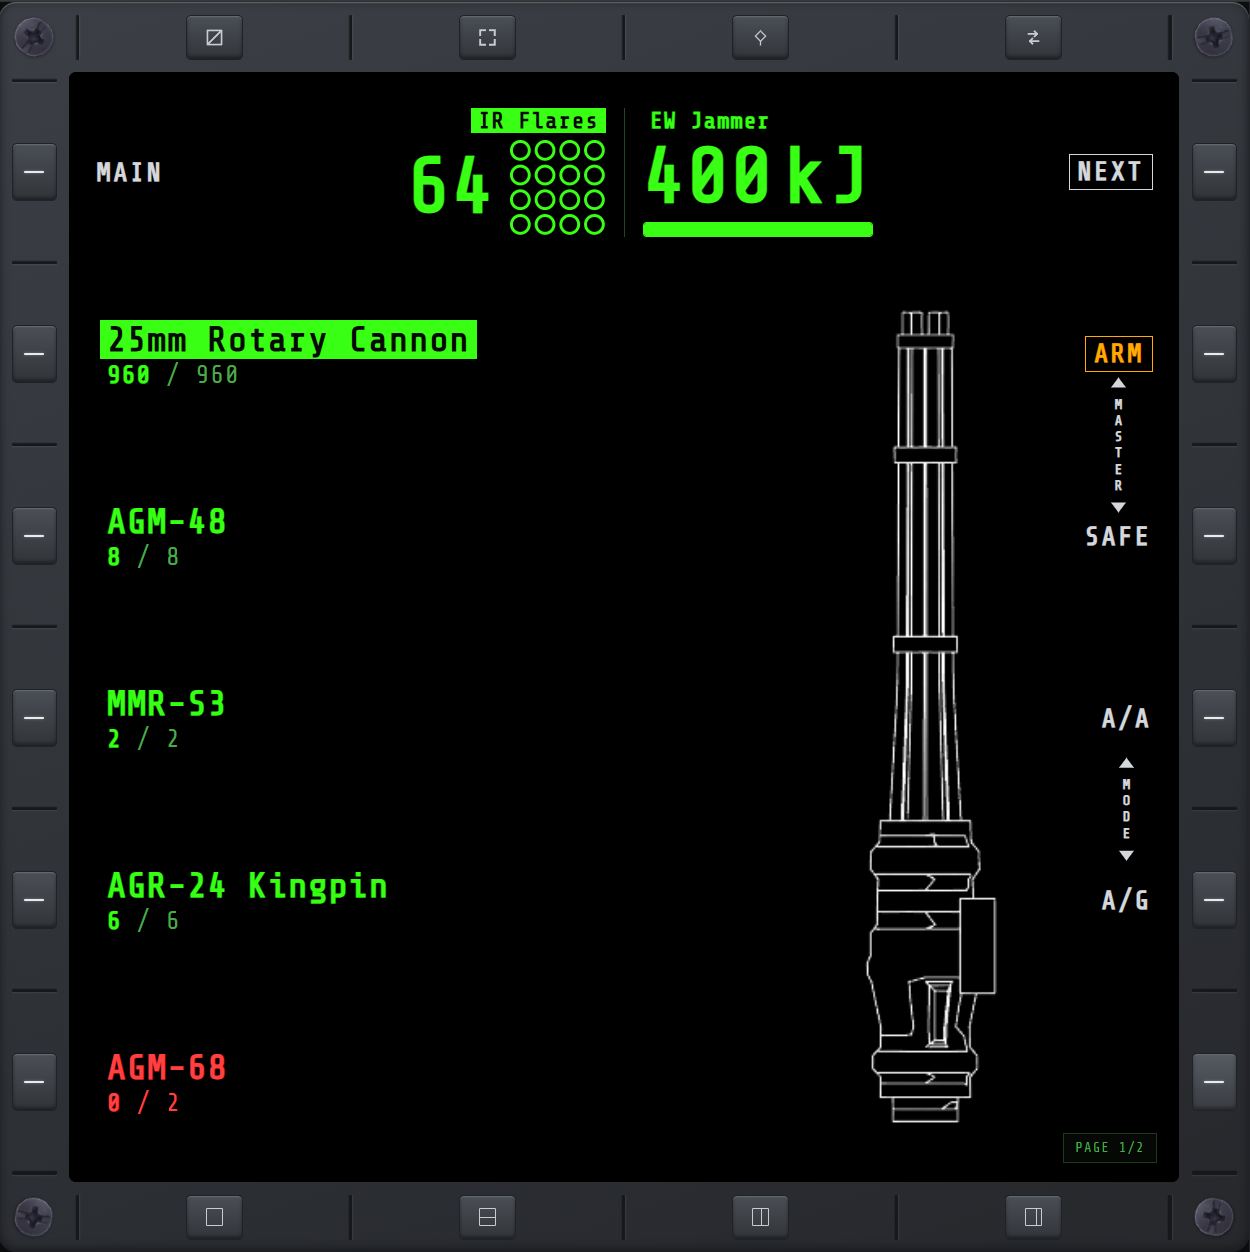
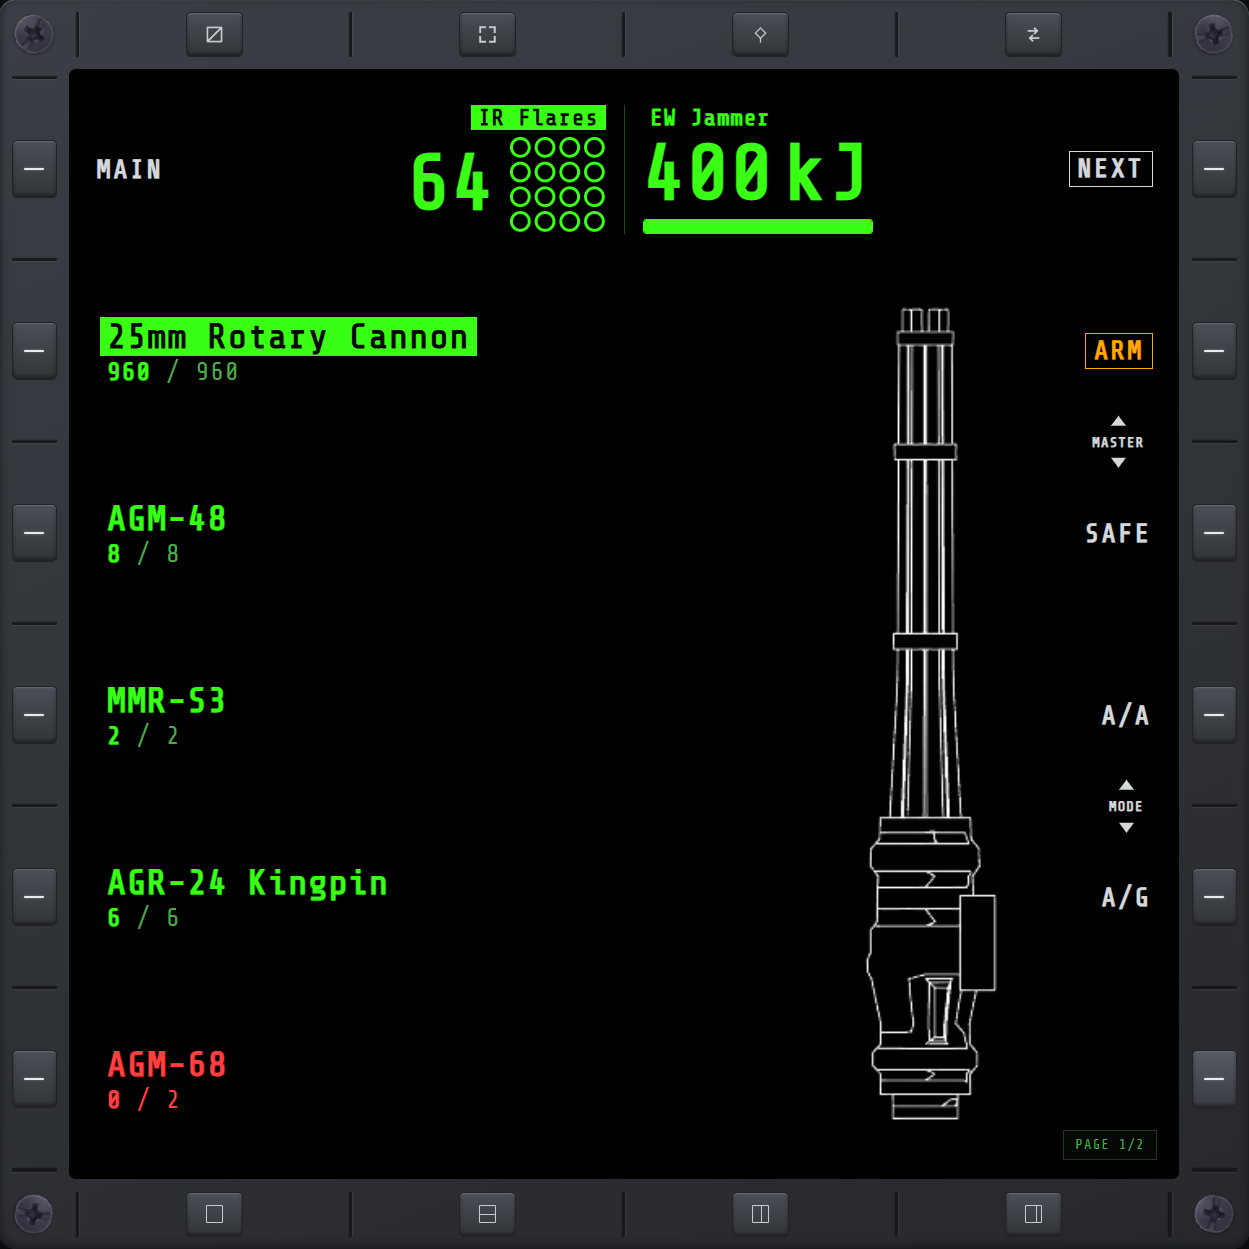
WPN: MASTER/MODE decorators render horizontal, not stacked vertical
The stacked vertical word (one letter per line) could be taller than
the gap between its pair of labels (ARM/SAFE, A/A/A-G), bleeding into
them on a shorter screen — confirmed even at a normal desktop height
in the harness (114px of vertical text against a 73px gap). Simpler
and more readable as a plain horizontal line instead; the up/down
arrows are unaffected. Same fix on both the classic bezel and F-35
layouts, which each own a separate copy of this decorator.

diff --git a/src/web/shell/mfd.css b/src/web/shell/mfd.css
@@ -508,8 +508,8 @@
   }
   .wpn-decor svg { display: block; }
   .wpn-decor-word {
-    writing-mode: vertical-rl;
-    text-orientation: upright;
+    writing-mode: horizontal-tb;
+    text-orientation: mixed;
     font: inherit;
     font-family: var(--no-font);
     font-size: 11px;

diff --git a/src/web/shell/f35/f35.css b/src/web/shell/f35/f35.css
@@ -605,8 +605,8 @@ html, body {
 }
 .wpn-decor svg { display: block; }
 .wpn-decor-word {
-  writing-mode: vertical-rl;
-  text-orientation: upright;
+  writing-mode: horizontal-tb;
+  text-orientation: mixed;
   font: inherit;
   font-size: 11px;
   font-weight: 700;
